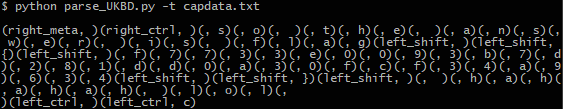
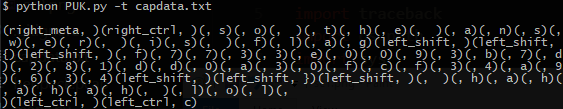
rename to PUK.py

Changed region(s): [[0.0, 0.0, 1.0, 1.0], [0.0, 0.0, 0.4831, 0.1101]]

diff --git a/PUK.py b/PUK.py
@@ -9,7 +9,7 @@ import re
 from maps import shift_map, mod_keys, base_keys
 
 help_info = '''
-  Usage: parse_UKBD [OPTIONS] [INPUT FILE]
+  Usage: PUK.py [OPTIONS] [INPUT FILE]
     -o fileName.txt   Output file
     -v                Verbose  (Default if -o is not present.)
     -c                Confirm targets before file I/O.
